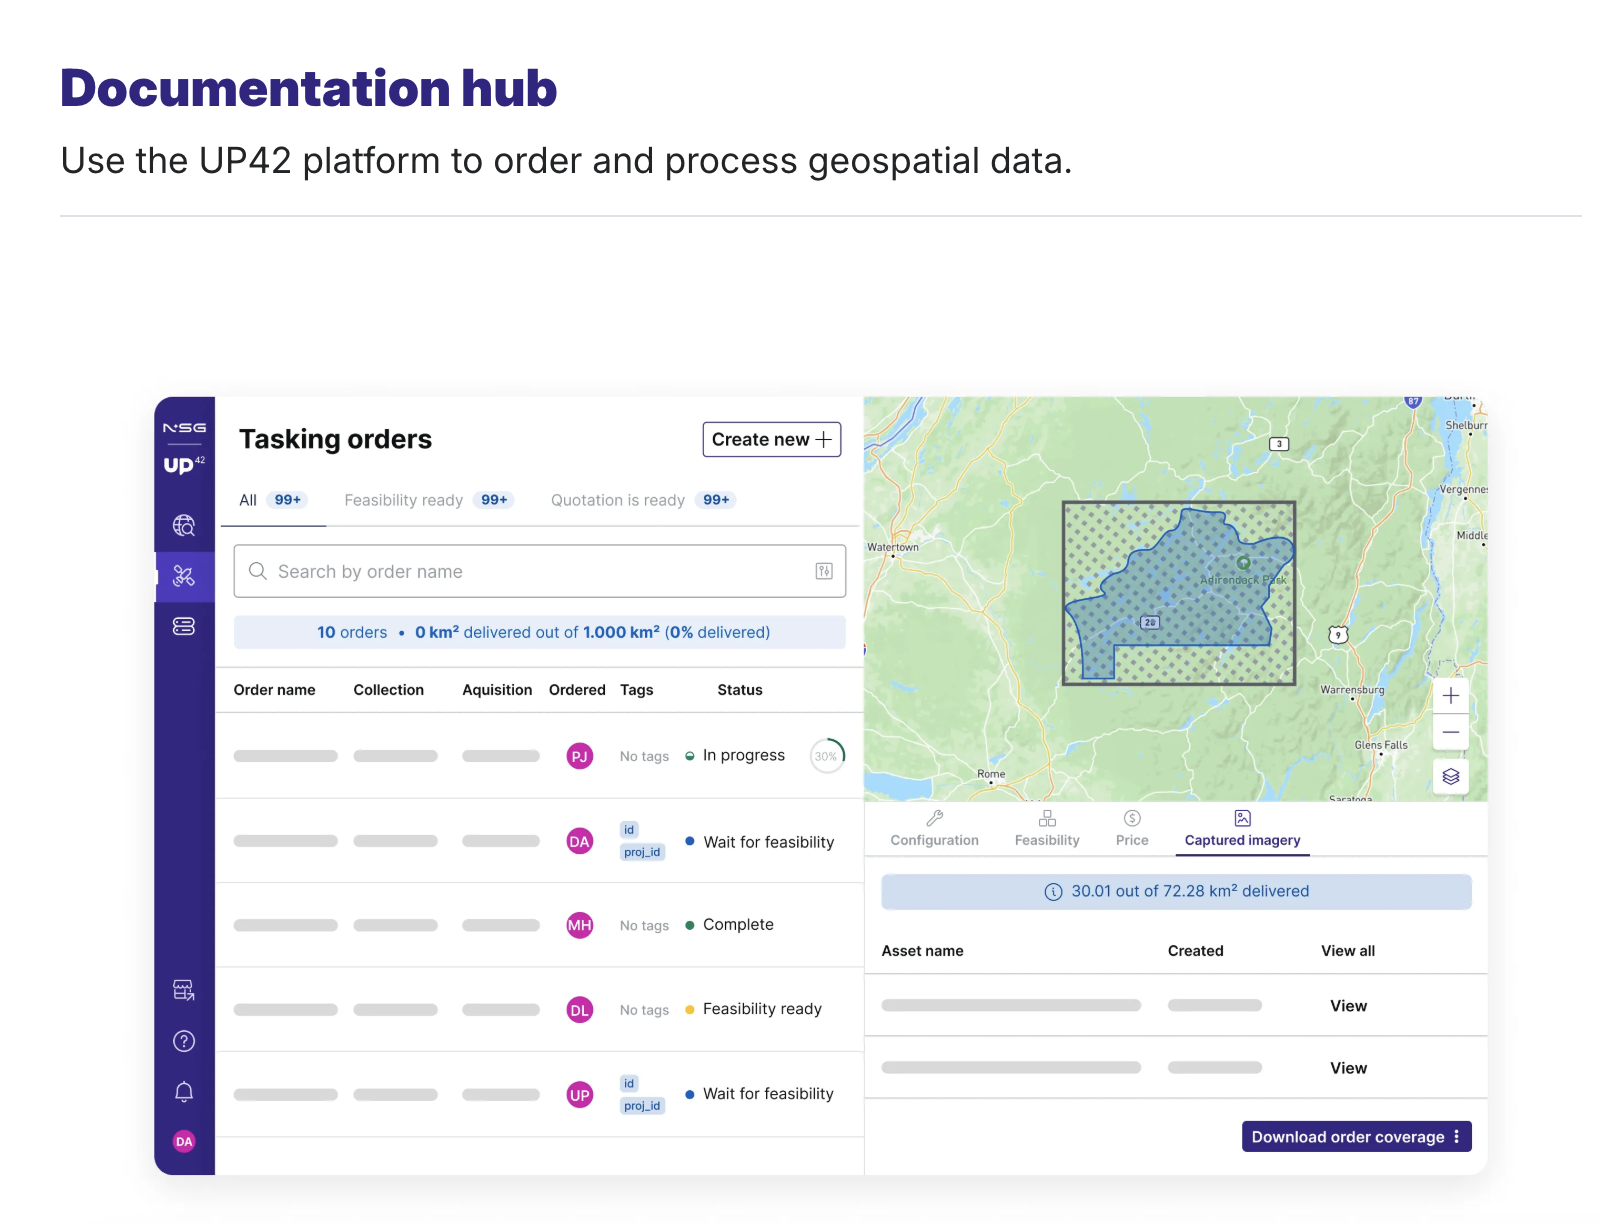
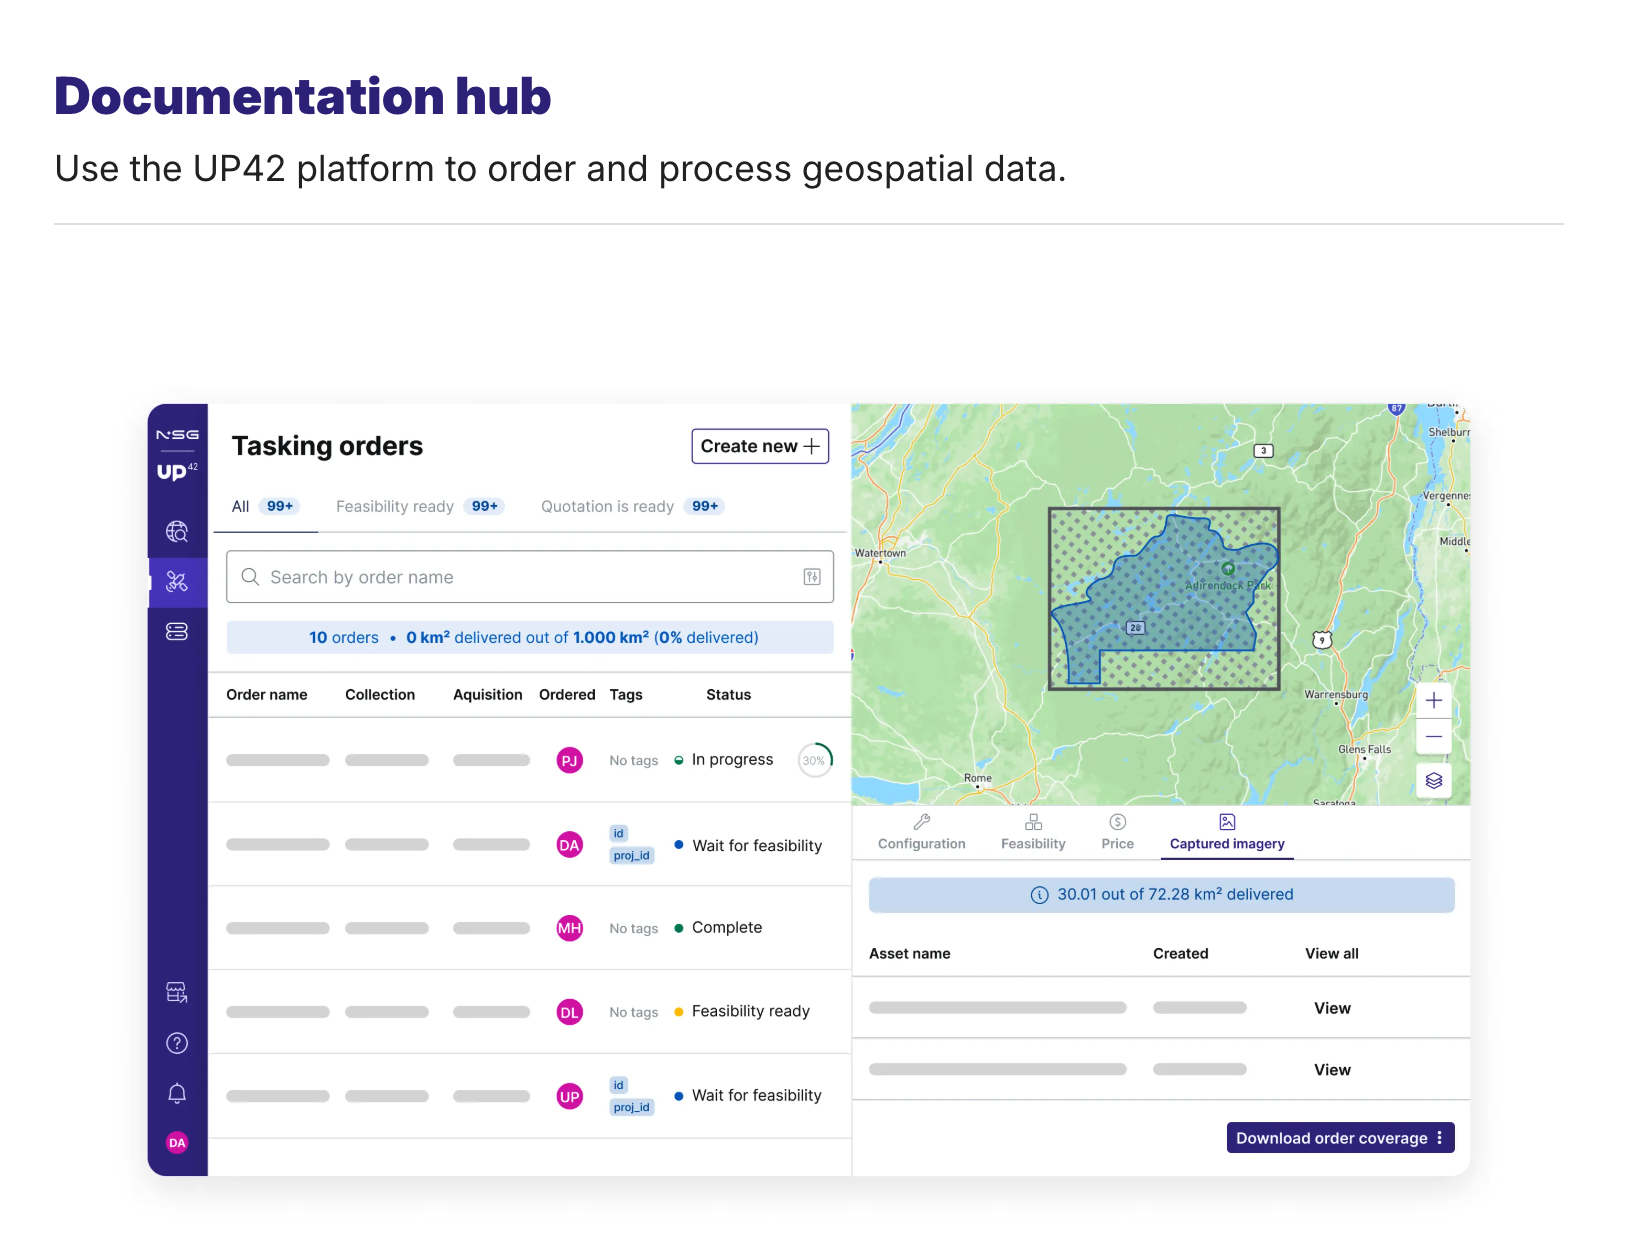
Case study dochub (#21)

Changed region(s): [[0.0625, 0.3105, 0.9375, 0.9624], [0.0312, 0.1242, 0.6562, 0.1552], [0.0312, 0.031, 0.3438, 0.0931]]

diff --git a/_sass/minima/custom-styles.scss b/_sass/minima/custom-styles.scss
@@ -150,22 +150,16 @@
   position: absolute;
   top: 0;
   bottom: 0;
-  left: calc(100% + 1rem);
-  width: 140px;
+  left: calc(100% + 1.25rem);
+  width: 220px;
 }
 
 .page-toc__inner {
   position: sticky;
   top: 2rem;
   max-height: calc(100vh - 4rem);
+  overflow-x: visible;
   overflow-y: auto;
-}
-
-.page-toc__title {
-  margin: 0 0 0.65rem;
-  color: $text-color;
-  font-size: 0.85rem;
-  font-weight: 600;
 }
 
 .page-toc__list {
@@ -187,7 +181,8 @@
     padding: 0.3rem 0;
     color: $text-muted;
     font-size: 0.82rem;
-    line-height: 1.35;
+    line-height: 1.4;
+    overflow-wrap: break-word;
     text-decoration: none;
     transition: color 0.15s ease;
 
@@ -203,7 +198,7 @@
   }
 }
 
-@media (min-width: 1100px) {
+@media (min-width: 1280px) {
   .page-toc {
     display: block;
   }
@@ -475,32 +470,6 @@ img {
   border-radius: 10px;
 }
 
-img.image-center,
-.image-center img {
-  margin-right: auto;
-  margin-left: auto;
-}
-
-.text-image-grid {
-  display: grid;
-  grid-template-columns: minmax(0, 1fr) minmax(0, 1fr);
-  gap: 2rem;
-  align-items: center;
-  margin: 2rem 0;
-
-  > :first-child {
-    align-self: start;
-  }
-
-  h2:first-child {
-    margin-top: 0;
-  }
-
-  img {
-    width: 100%;
-  }
-}
-
 .case-study-facts {
   display: grid;
   grid-template-columns: repeat(3, 1fr);
@@ -540,20 +509,6 @@ img.image-center,
   margin-top: 0.75rem;
 }
 
-.case-study-quote {
-  margin: 2.5rem 0;
-  padding: 1.5rem 2rem;
-  color: $text-color;
-  background: $block-background;
-  border-left: 4px solid $accent-color;
-  font-size: 1.25rem;
-  line-height: 1.55;
-
-  p {
-    margin: 0;
-  }
-}
-
 .case-study-footer {
   margin-top: 3.5rem;
   padding: 2.25rem;
@@ -575,11 +530,6 @@ img.image-center,
 }
 
 @media (max-width: 700px) {
-  .text-image-grid {
-    grid-template-columns: 1fr;
-    gap: 1rem;
-  }
-
   .portfolio-grid {
     grid-template-columns: 1fr;
 

diff --git a/portfolio/index.html b/portfolio/index.html
@@ -13,7 +13,7 @@ description: Selected product and technical communication work by Daria Lutchenk
       <img src="{{ case_study.image | relative_url }}" alt="{{ case_study.image_alt | default: '' | escape }}">
     </div>
     <div class="portfolio-card__body">
-      <p class="portfolio-card__meta">{{ case_study.portfolio_label | default: "Case study" | escape }}</p>
+      <p class="portfolio-card__meta">{{ case_study.label | default: "Case study" | escape }}</p>
       <h2>{{ case_study.title | escape }}</h2>
       <p>{{ case_study.description | escape }}</p>
     </div>

diff --git a/_layouts/case-study.html b/_layouts/case-study.html
@@ -8,7 +8,7 @@ layout: base
       <a href="{{ '/portfolio/' | relative_url }}" class="back-to-posts">Back to Portfolio</a>
     </div>
     <h1 class="post-title">{{ page.title | escape }}</h1>
-    <div class="case-study-meta">{{ page.portfolio_label | escape }}</div>
+    <div class="case-study-meta">{{ page.label | escape }}</div>
   </header>
 
   <div class="article-body-with-toc">

diff --git a/_includes/toc.html b/_includes/toc.html
@@ -1,6 +1,5 @@
 <aside class="page-toc" aria-label="Table of contents" hidden>
   <nav class="page-toc__inner">
-    <p class="page-toc__title">On this page</p>
     <ol class="page-toc__list"></ol>
   </nav>
 </aside>

diff --git a/portfolio/up42-documentation-hub.md b/portfolio/up42-documentation-hub.md
@@ -1,13 +1,14 @@
 ---
 layout: case-study
 title: Turning documentation into a product discovery tool
-permalink: /portfolio/up42-documentation-hub
 description: How I transformed UP42's documentation website from a help center into an award-winning unified discovery experience.
+permalink: /portfolio/up42-documentation-hub
+label: B2B product case study
 image: /assets/images/portfolio/up42-documentation-hub-cover.png
-image_alt: Abstract geometric illustration in teal, beige, and black
+image_alt: A screenshot of Documentation hub's homepage showing a tasking order and captured imagery
 portfolio: true
 portfolio_order: 1
-portfolio_label: B2B product case study
+
 ---
 
 <div class="case-study-facts" aria-label="Case study focus">
@@ -21,53 +22,77 @@ portfolio_label: B2B product case study
   </div>
   <div>
     <span>Timeline</span>
-    <strong>Jun 2022—Present</strong>
+    <strong>Aug 2022—Present</strong>
   </div>
 </div>
 
 ---
 
-![UP42 Documentation Hub showing a tasking order and captured imagery](/assets/images/portfolio/up42-documentation-hub.png)
+<div style="display: grid; grid-template-columns: 1fr 1fr; gap: 2rem; align-items: start;">
+  <div>
+    <p>
+       <a href="https://up42.com">UP42</a> is a geospatial marketplace for satellite, aerial, and elevation data from multiple providers, with processing available on the same platform.
+    </p>
+    <p>
+       As product lead, I led a team consisting of technical writers, product managers, and frontend engineers building the <a href="https://docs.up42.com">Documentation hub</a>. Our product supported customers from the discovery and evaluation of geospatial offerings through to the point at which they were ready to place an order. The portal was designed to guide customers through evaluation and bring them to the point where they could move confidently into the ordering experience.
+    </p>
+  </div>
+  <img src="/assets/images/portfolio/up42-documentation-hub.png" alt="UP42 Documentation hub showing a tasking order and captured imagery">
+</div>
 
-## The challenge
+When I joined in 2022, the portal operated as a help center. Documentation was produced after releases rather than planned alongside them. Customers evaluating data had to piece together the information they needed from provider-specific language and inconsistent specifications, while the ordering experience assumed customers already knew what to purchase.
 
-Technical products accumulate complexity quickly: expert language, edge cases, dependencies, and competing priorities all become part of the experience.
+## Building a decision-making product
 
-The challenge is to preserve what is powerful about the product without asking people to understand its entire internal world first.
+When I joined as a technical writer, one of my first product decisions was how the documentation should sound. Writing in the style of internal specifications doesn't support evaluation or purchase, so with my team, we rewrote the portal documentation around two core principles:
 
-## My approach
+> **We help users**<br/>
+We do not only describe product capabilities. We explain how those capabilities help the user make a decision.
 
-I begin by learning enough to ask useful questions. I speak with the people who
-build the product and the people who use it, then map the moments where context
-is missing or choices become difficult.
+> **We talk on equal terms**<br/>
+We advise users rather than instruct them. We know UP42's products well and are there to help.
 
-From there, I give the problem a structure:
+I interviewed product managers and engineering and restructured the portal's information architecture and its voice to make the experience clearer and more useful to the people using it. The writing focused on what users needed to know and do, using language that was direct, natural, and easy to scan.
 
-1. **Find the decision behind the request.** A feature request often points to a
-   deeper job that someone is trying to complete.
-2. **Make the invisible visible.** Shared diagrams, plain language, and concrete
-   examples help a team see assumptions and gaps early.
-3. **Reduce before adding.** Clearer hierarchy and fewer choices can solve a
-   problem more effectively than another layer of functionality.
-4. **Test the story.** If the product direction cannot be explained simply, it
-   usually needs another round of thinking.
+With my team, we put the most useful information where users would expect to find it and removed details that didn't help them make a decision. This established the portal as a product with clear goals:
+- Help customers understand the product and decide what to order
+- Provide a source of truth for the organization and keep product information aligned.
 
-<blockquote class="case-study-quote">
-  <p>Clarity is not decoration added at the end. It is part of how the product is shaped.</p>
-</blockquote>
+![A screenshot of UP42's documentation website's page explaining the difference between optical and SAR collections](/assets/images/portfolio/optical-sar.png)
 
-## What this creates
+## Establishing the portal as the source of truth
 
-This way of working gives teams a shared understanding of the problem and a
-product direction that is easier to discuss, test, and refine. It also makes the
-eventual experience more approachable for people who do not share the team’s
-technical context.
+UP42 offered dozens of collections from different providers, each using its own terms for resolution, spectral bands, acquisition modes, coverage, and commercial conditions. Without a shared structure, users couldn't easily compare data products, and evaluation often stopped before an order could be placed. The portal's role became to bring this information together once, in a format that could be used across all offerings.
 
-My background in technical writing is central to the process. It trained me to
-notice ambiguity, follow a user’s path through unfamiliar territory, and make
-every piece of information earn its place.
+We established the portal as the source of truth for every offering, applying the same structure, vocabulary, and technical dimensions to every provider so that collections could be compared on equal terms.
+
+The work was both editorial and technical. It required alignment between CS, Partnerships, Marketing, Product, and Engineering on shared definition of a geospatial collection, and the continued maintenance of that model as new providers were added.
+
+![Marketplace on UP42's documentation website showcasing cards and filters](/assets/images/portfolio/marketplace.png)
+
+## Solving for the ordering gap
+
+Once the language and the data model were stable, the product question changed. The portal was a reliable source of information, but it remained a document to be read. The objective became to reduce the time from discovery to ordering.
+
+We established a continuous customer interview process and synthesized the findings into an Opportunity Solution Tree. That tree guided team's prioritization. We developed solutions for those opportunities, launched the ones worth investing in, and tracked how they were used.
+
+1. Speak with customers who are evaluating data options.
+2. Capture their needs and wants in a structure the team can use to debate and prioritize.
+3. Identify solutions we could build to improve discoverability and bring customers closer to ordering.
+4. Assess how users use the developed solution and whether it helps us achieve our product outcome (product outcome = customer need + business need).
+
+We iterated on the marketplace and built a companion comparison tool with filters for key evaluation criteria. From every collection page, users had a clear path to assess sample data and place an order.
+
+![Collection finder on UP42's documentation website showcasing sortable columns](/assets/images/portfolio/comparison-finder.png)
+
+## Recognition for the portal
+
+The work turned the portal into a discovery product. Customers could find a suitable collection without learning each provider's terminology and reach ordering stage with a purchasing decision. In 2025, the portal received [Best Developer Portal for Data Products](https://devportalawards.org/winners?year=2025) at the DevPortal Awards.
+
+A [quote](https://www.linkedin.com/posts/devportal-awards_devportalawards-devportalawards2025-techaward-activity-7396970537912176641-Vqcx?utm_source=share&utm_medium=member_desktop&rcm=ACoAACN4dl0BrNAtFedbYTzdsrQWQrxd8AoqJ7k) from DevPoral Awards' jury panel:
+> The UP42 portal was seen as tackling a very challenging and complicated data set, and they set a high standard for compliance and transparency. This portal excels at treating geospatial offerings as data products, with clear provenance for both provider and processing levels, strong interpretability, and a practical, centralized catalog. Discovery and persona coverage are top‑notch, and for every API exposed, they explicitly presented the End User Licensing Agreement.
 
 <div class="case-study-footer">
   <p>Building your next product?</p>
-  <a href="https://www.linkedin.com/in/daria-lutchenko/">Let’s connect <span aria-hidden="true">→</span></a>
+  <a href="https://www.linkedin.com/in/daria-lutchenko/">Let's connect <span aria-hidden="true">→</span></a>
 </div>
